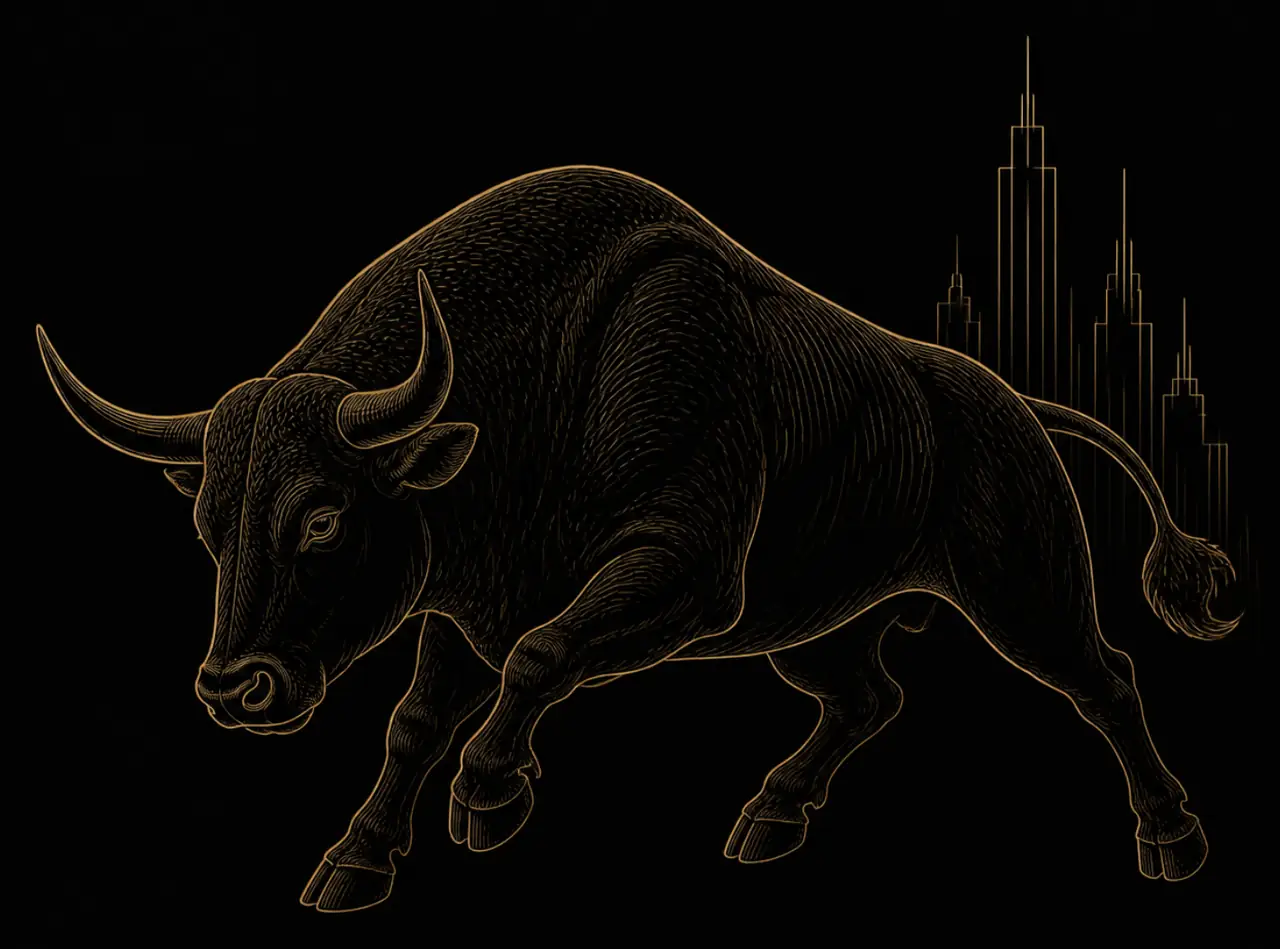
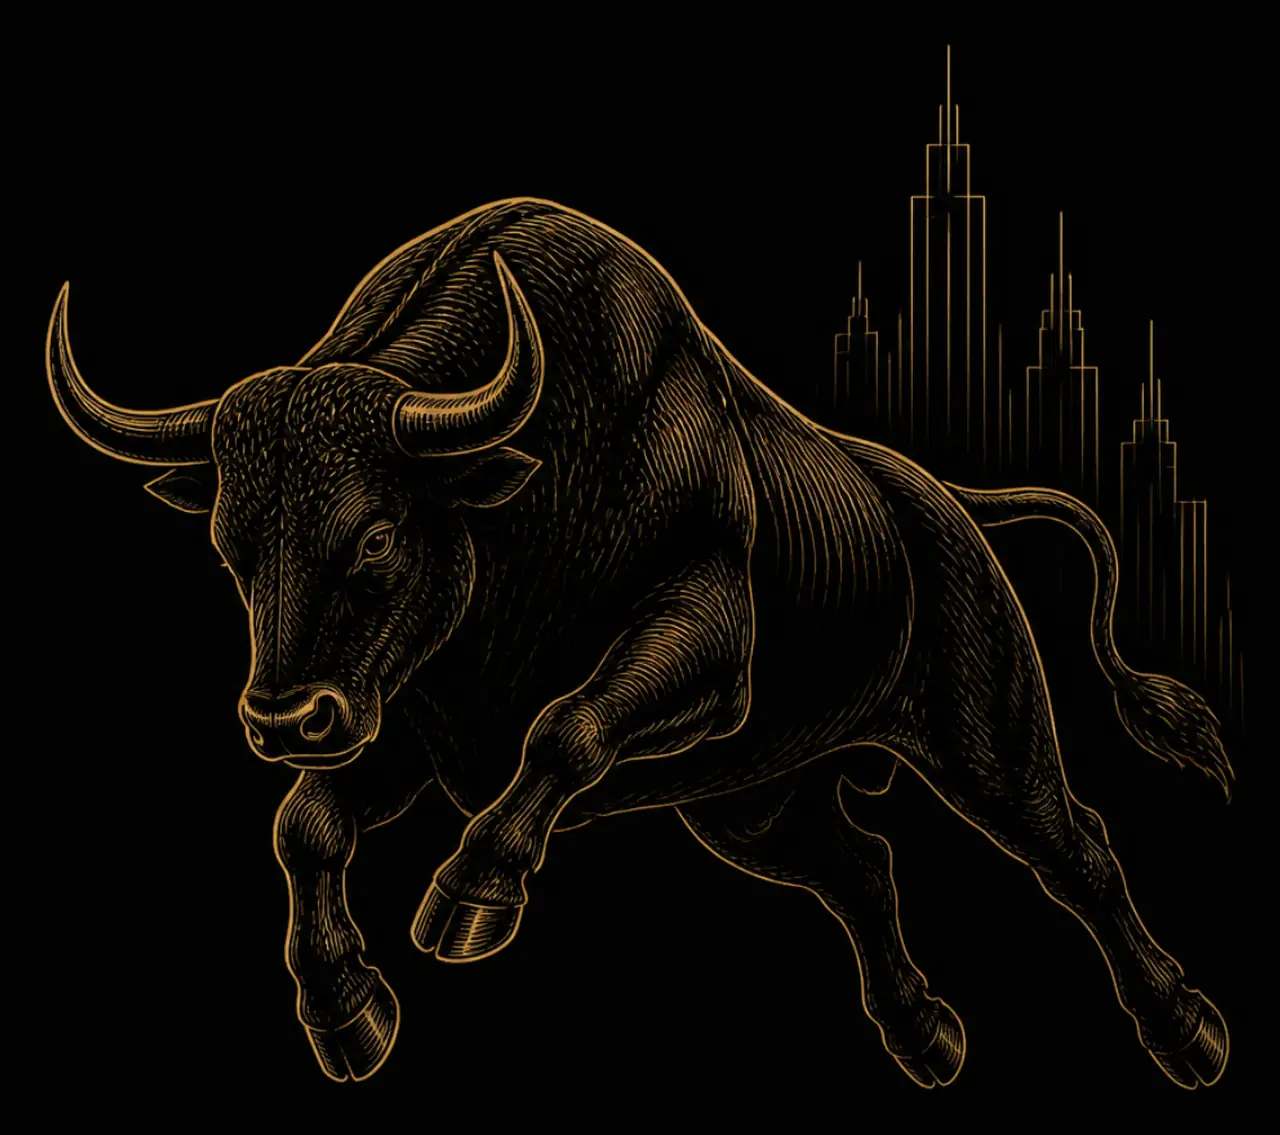
Switch the hero bull to the head-on engraved variant
Uses variant B of the engraved charging bull in the hero and LinkedIn
banner, cropped to the drawing. On the banner the guilloche fades out
before the bull so the linework stays clean.

Changed region(s): [[0.0312, 0.0917, 0.9688, 0.9779]]

diff --git a/scripts/social/linkedin-banner.html b/scripts/social/linkedin-banner.html
@@ -7,8 +7,11 @@
 <style>
   html, body { margin: 0; width: 1584px; height: 396px; overflow: hidden; background: #0B0B0C; }
   .banner { position: relative; width: 1584px; height: 396px; overflow: hidden; color: #EEE8DD; font-family: Inter, sans-serif; }
-  .guilloche { position: absolute; inset: 0; width: 100%; height: 100%; object-fit: cover; opacity: 0.32; }
-  .bull { position: absolute; right: 14px; top: 10px; height: 350px; width: 472px; object-fit: contain; object-position: right center; filter: brightness(0.7);
+  .guilloche { position: absolute; inset: 0; width: 100%; height: 100%; object-fit: cover; opacity: 0.32;
+    -webkit-mask: linear-gradient(90deg, #000 55%, transparent 74%); mask: linear-gradient(90deg, #000 55%, transparent 74%); }
+  /* The bull sits on a plain black field, so its image box blends in with no visible edge. */
+  .banner { background: linear-gradient(90deg, #0B0B0C 70%, #000 78%); }
+  .bull { position: absolute; right: 24px; top: 4px; height: 352px; width: 397px; object-fit: contain; object-position: right center; filter: brightness(0.7);
     -webkit-mask: linear-gradient(90deg, transparent 0%, #000 45%); mask: linear-gradient(90deg, transparent 0%, #000 45%); }
   .shade { position: absolute; inset: 0; background: linear-gradient(90deg, #0B0B0C 0%, rgba(11,11,12,.92) 38%, rgba(11,11,12,.35) 70%, rgba(11,11,12,.15)); }
   /* LinkedIn's profile photo covers the lower-left corner, so the text sits right of it. */

diff --git a/css/main.css b/css/main.css
@@ -234,9 +234,9 @@ a:hover { color: var(--text); }
 .market-line path { fill: none; stroke: var(--accent); stroke-width: 1.2; vector-effect: non-scaling-stroke; }
 .market-line .area { fill: url(#mlGrad); stroke: none; }
 @media (max-width: 820px) {
-  .hero { flex-direction: column; align-items: stretch; justify-content: flex-end; padding-top: calc(78vw + 1rem); }
+  .hero { flex-direction: column; align-items: stretch; justify-content: flex-end; padding-top: calc(92vw + 1rem); }
   /* The whole bull, uncropped, above the headline. */
-  .hero-media { inset: 0.5rem 0 auto 0; width: 100%; height: auto; aspect-ratio: 1423 / 1055; }
+  .hero-media { inset: 0.5rem 0 auto 0; width: 100%; height: auto; aspect-ratio: 1136 / 1007; }
   .hero-media img { object-position: 50% 50%; }
   .hero-media::after { display: none; }
   .hero .rosette { display: none; }
